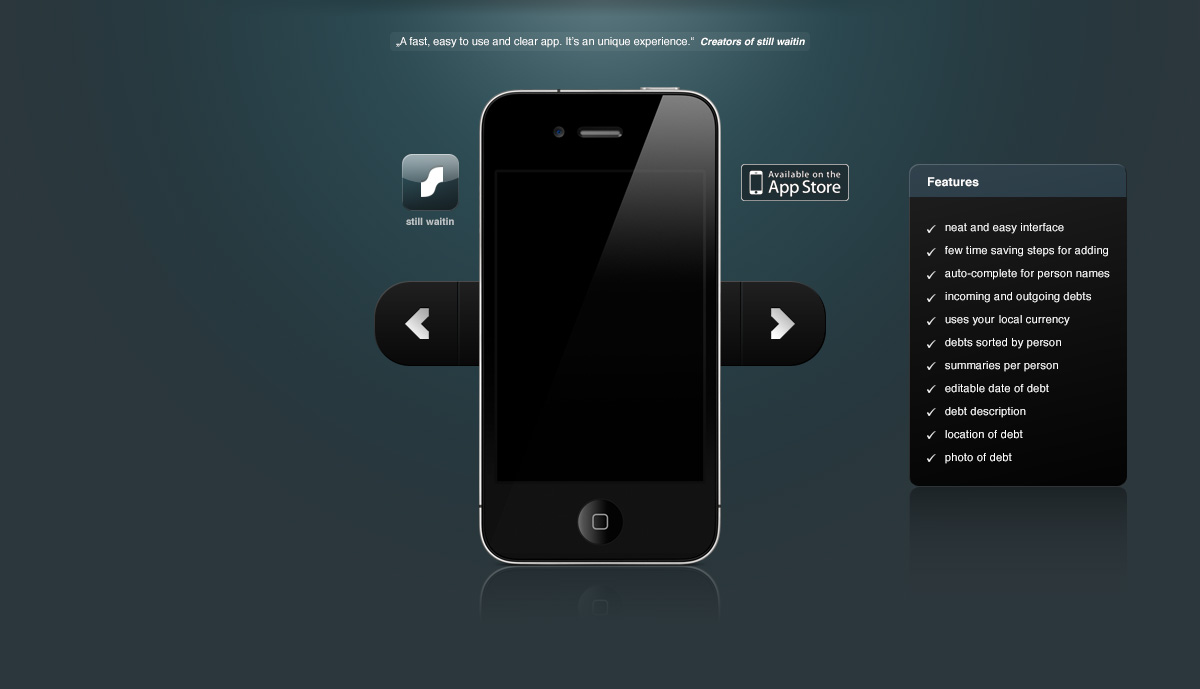
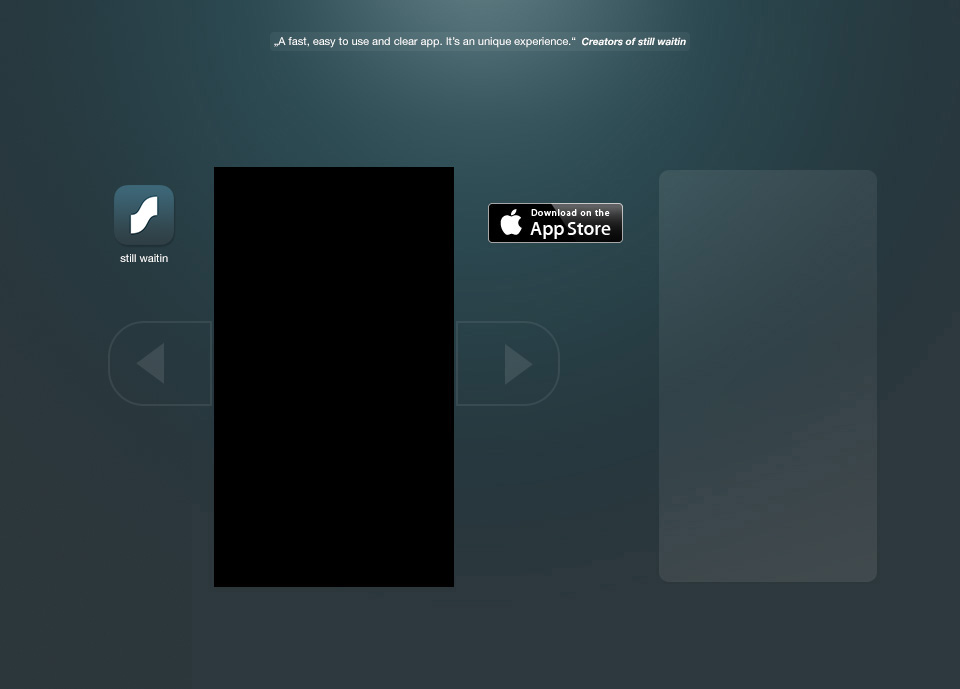
updated ios version of website

diff --git a/index.html b/index.html
@@ -8,7 +8,7 @@
     
     <title>devmob | creators of still waitin</title>
     
-    <meta name="description" content="Never ever forget collecting debts from your friends or colleagues. With less steps than other apps you will be able to add your financial reminders. STILL WAITIN's FEATURES ✔ neat and easy interface ✔ few time saving steps for adding ✔ auto-complete for person names ✔ incoming and outgoing debts ✔ uses your local currency ✔ debts sorted by person ✔ summaries per person ✔ editable date of debt ✔ debt description ✔ location of debt ✔ photo of debt " />
+    <meta name="description" content="Never ever forget collecting debts from your friends or colleagues. With less steps than other apps you will be able to add your financial reminders. STILL WAITIN's FEATURES ✔ &nbsp; neat and easy interface ✔ &nbsp; few time saving steps for adding ✔ &nbsp; auto-complete for person names ✔ &nbsp; incoming and outgoing debts ✔ &nbsp; uses your local currency ✔ &nbsp; debts sorted by person ✔ &nbsp; summaries per person ✔ &nbsp; editable date of debt ✔ &nbsp; debt description ✔ &nbsp; location of debt ✔ &nbsp; photo of debt " />
     <meta name="keywords" content="iphone app,iphone,IOU,UOI,debts,debt,lend,i,owe,lending,waiting,me,you,bank,money,lunch,spend,spending,manager,save,friends,colleagues,tracker" />
     
     <link href="style.css" rel="stylesheet" type="text/css" />
@@ -47,7 +47,7 @@
         &nbsp;
     </div>
     
-    <div id="content">
+    <div id="main">
     	
         <div id="btnsupport">
 			<a href="javascript:linkTo_UnCryptMailto('ocknvq<uwrrqtvBfgxoqd0fg', 2);" onfocus="if(this.blur)this.blur()">
@@ -55,19 +55,41 @@
 			</a>
 		</div>
 		
-        <div id="iphone">
+        <div id="content">
             <div id="arealeft">
        		  <a href="http://taps.io/ODQ3NjY/?__ts=stillwaitinicon" onfocus="if(this.blur)this.blur()"><div class="appbtn">&nbsp;</div></a>
         		<a href="#" onclick="previousImage();" onfocus="if(this.blur)this.blur()"><div class="arrowbtn">&nbsp;</div></a>
             </div>
+
+            <div id="features">
+                <h1>Features</h1>
+                ✔ &nbsp; neat and easy interface<br />
+                ✔ &nbsp; fast entry adding with few steps<br />
+                ✔ &nbsp; auto-complete for your contacts<br />
+                ✔ &nbsp; incoming and outgoing debts<br />
+                ✔ &nbsp; uses your local currency<br />
+                ✔ &nbsp; export your data (json/csv)<br />
+                ✔ &nbsp; summaries for each person<br />
+                ✔ &nbsp; send email &nbsp; sms reminders<br />
+                ✔ &nbsp; debts grouped by person<br />
+                ✔ &nbsp; total sum of all debts<br />
+                ✔ &nbsp; editable date of debt<br />
+                ✔ &nbsp; password protection<br />
+                ✔ &nbsp; debt description<br />
+                ✔ &nbsp; location of debts<br />
+                ✔ &nbsp; debt reminders<br />
+                ✔ &nbsp; photo of debt
+            </div>
             
             <div id="arearight">
-       		  <a href="http://taps.io/ODQ3NjY/?__ts=appstoreicon" onfocus="if(this.blur)this.blur()"><div class="appbtn">&nbsp;</div></a>
-        		<a href="#" onclick="nextImage();" onfocus="if(this.blur)this.blur()"><div class="arrowbtn">&nbsp;</div></a>
-          </div>
+              <a href="http://taps.io/ODQ3NjY/?__ts=appstoreicon" onfocus="if(this.blur)this.blur()"><div class="appbtn">&nbsp;</div></a>
+                <a href="#" onclick="nextImage();" onfocus="if(this.blur)this.blur()"><div class="arrowbtn">&nbsp;</div></a>
+            </div>
+
+            <img id="iphone" src="images/phone_transparent.png" />
         	 
         	<a href="#" onclick="nextImage();" onfocus="if(this.blur)this.blur()">
-            	<img name="image" src="images/screen3.jpg" width="206" height="308" alt="screenshot" />
+            	<img name="screenshots" id="screenshot" src="screenshots/4.jpg" width="230" height="408" alt="screenshots" />
             </a>
         </div>
 		
@@ -76,20 +98,9 @@
     </div>
     
     <div id="description">
-        Never ever forget collecting debts from your friends or colleagues.<br /><br />
-        With less steps than other apps you will be able to add your financial reminders.<br /><br />
-        STILL WAITIN's FEATURES<br /><br />
-        ✔ neat and easy interface<br />
-        ✔ few time saving steps for adding<br />
-        ✔ auto-complete for person names<br />
-        ✔ incoming and outgoing debts<br />
-        ✔ uses your local currency<br />
-        ✔ debts sorted by person<br />
-        ✔ summaries per person<br />
-        ✔ editable date of debt <br />
-        ✔ debt description<br />
-        ✔ location of debt<br />
-        ✔ photo of debt
+        Awarded in the iTunes Rewind 2010 and 2011 as one of the best apps of the year!<br /><br />
+        Never ever forget the money again, that you lended your friends and colleagues - or what they gave you.<br /></br>
+        With less steps than other apps you will be able to add your financial reminders very efficient. You can automatically get reminded at a given time, or send a formatted email with all open positions to your contacts.
     </div>
 
 </body>

diff --git a/style.css b/style.css
@@ -8,8 +8,8 @@ html, body, div, a, p {
 
 body {
 	background-color: #2c373c;
-	font-family: sans-serif;
-	font-size: 12px;
+	font-family: "Helvetica Neue", sans-serif;
+	font-size: 14px;
 	color: #FFF;
 }
 
@@ -20,24 +20,22 @@ body {
 }
 
 #headerimage {
-
 	background: url(images/header.jpg) center no-repeat #000;
-	min-width: 500px;
+	min-width: 800px;
 	height: 133px;
 }
 
-#content {
-	
+#main {
 	background: url(images/content_bg.jpg)  center top no-repeat;
 	height: 648px;
-	min-width: 500px;
+	min-width: 800px;
 }
 
 #btnsupport {
 	width: 132px;
 	height: 28px;
-	float: right;
-	margin-right: 65px;
+	position: absolute;
+	right: 10%;
 }
 
 a img {
@@ -45,17 +43,28 @@ a img {
 	-moz-outline-width: 0;
 }
 
-#iphone {
-	width: 500px;
-	height: 330px;
+#content {
+	width: 800px;
+	height: 520px;
 	margin: 0px auto;
-	padding-top: 151px;
+	padding-top: 168px;
 	text-align: center;
+	position: relative;
+}
+
+#iphone {
+	position: absolute;
+	top: 85px;
+	left: 113px;
+}
+
+#screenshot {
+	margin-right: 8px;
 }
 
 #arealeft, #arearight {
-	width: 120px;
-	height: 330px;
+	width: 130px;
+	height: 440px;
 }
 
 #arealeft {
@@ -63,24 +72,41 @@ a img {
 }
 
 #arearight {
+	width: 196px;
 	float: right;
-	
 }
 
 .appbtn {
-	height: 100px;
+	height: 120px;
 }
 
 .arrowbtn {
-	height: 230px;
+	height: 300px;
+}
+
+#features {
+	float: right;
+	width: 182px;
+	padding: 0px 22px;
+	font-size: 11px;
+	line-height: 21px;
+	text-align: left;
+	color: rgba(255,255,255,0.85);
+}
+
+#features h1 {
+	font-weight: 100;
+	font-size: 26px;
 }
 
 #description {
-	width: 260px;
+	width: 440px;
 	margin: 0px auto;
-	padding: 50px 0px;
-	color: rgba(255,255,255,0.2);
+	padding-top: 20px;
+	padding-bottom: 60px;
+	text-align: center;
+	font-weight: 300;
+	color: #CCC;
 	display: none;
 }
-
 

diff --git a/functional.js b/functional.js
@@ -22,8 +22,8 @@ function linkTo_UnCryptMailto(s, shift)
 
 // Image swapping
 
-var imageIndex = 2;
-var arr = ["images/screen1.jpg", "images/screen2.jpg", "images/screen3.jpg", "images/screen4.jpg", "images/screen5.jpg"];
+var imageIndex = 3;
+var arr = ["screenshots/1.jpg", "screenshots/2.jpg", "screenshots/3.jpg", "screenshots/4.jpg", "screenshots/5.jpg"];
 
 function nextImage()
 {
@@ -33,7 +33,7 @@ function nextImage()
 		imageIndex = 0;
 	}
 	
-	document.images["image"].src = arr[imageIndex];
+	document.images["screenshots"].src = arr[imageIndex];
 }
 
 function previousImage()
@@ -44,5 +44,5 @@ function previousImage()
 		imageIndex = arr.length - 1;
 	}
 	
-	document.images["image"].src = arr[imageIndex];
+	document.images["screenshots"].src = arr[imageIndex];
 }
